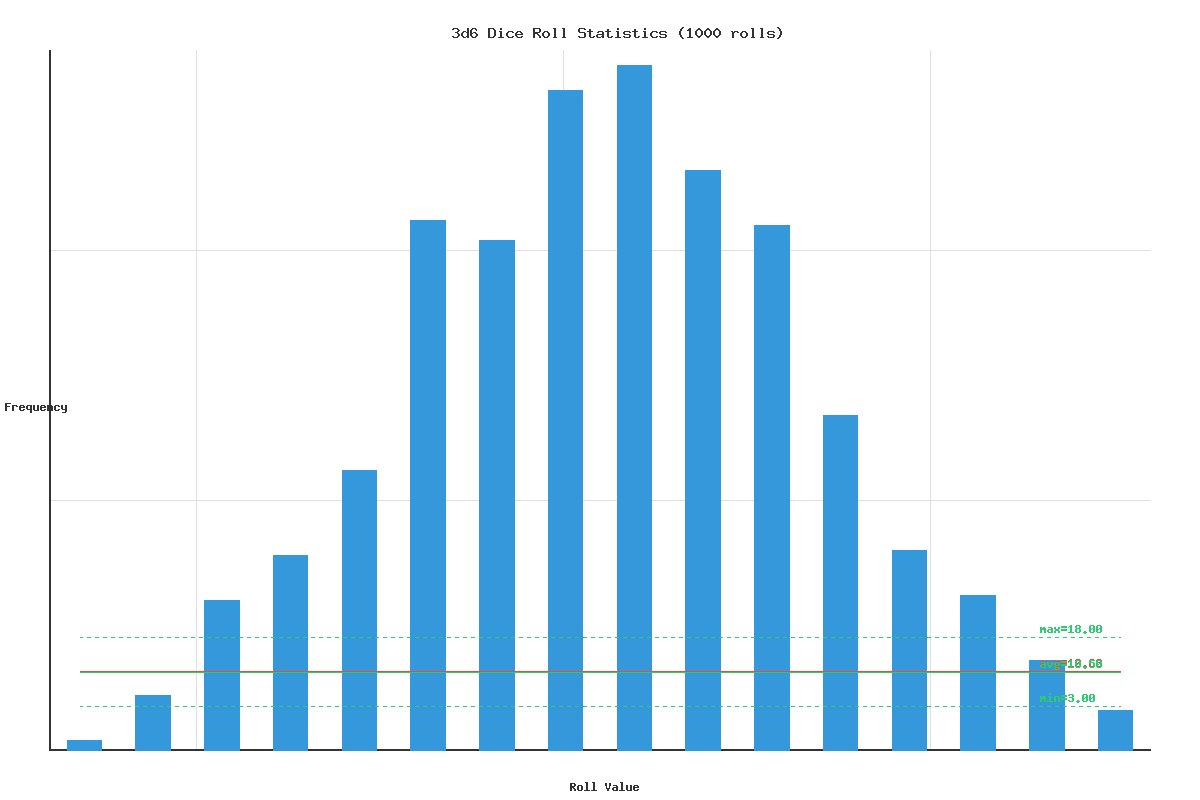
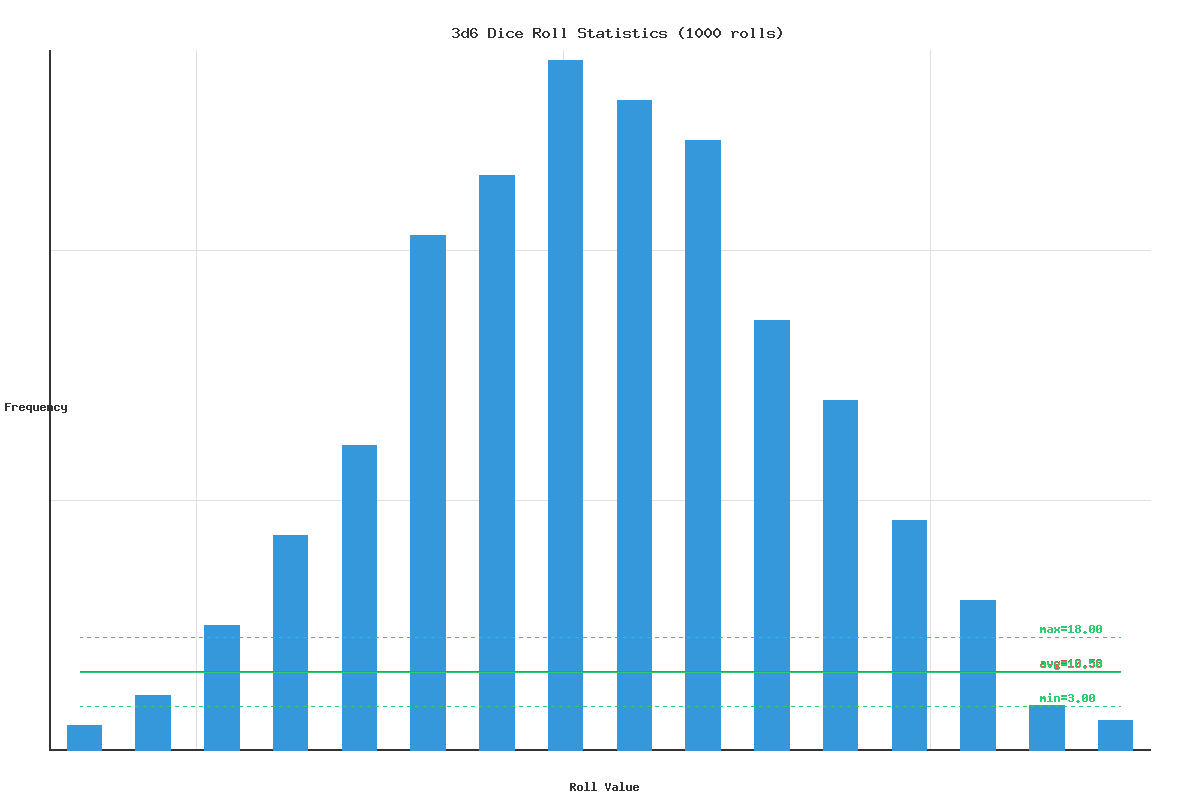
fix style

diff --git a/src/Chart/Chart.php b/src/Chart/Chart.php
@@ -293,7 +293,7 @@ final class Chart
         // Only allow overlays on X/Y chart types
         if ($this->type === ChartType::Pie || $this->type === ChartType::Radar) {
             throw new InvalidArgumentException(
-                "Statistical overlays are only supported for X/Y chart types (Line, Bar, Scatter). " .
+                'Statistical overlays are only supported for X/Y chart types (Line, Bar, Scatter). ' .
                 "Cannot add overlay to {$this->type->value} chart."
             );
         }